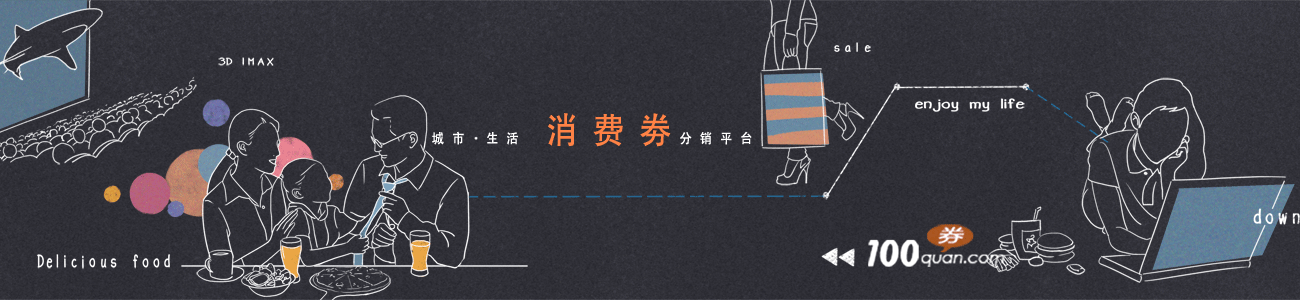
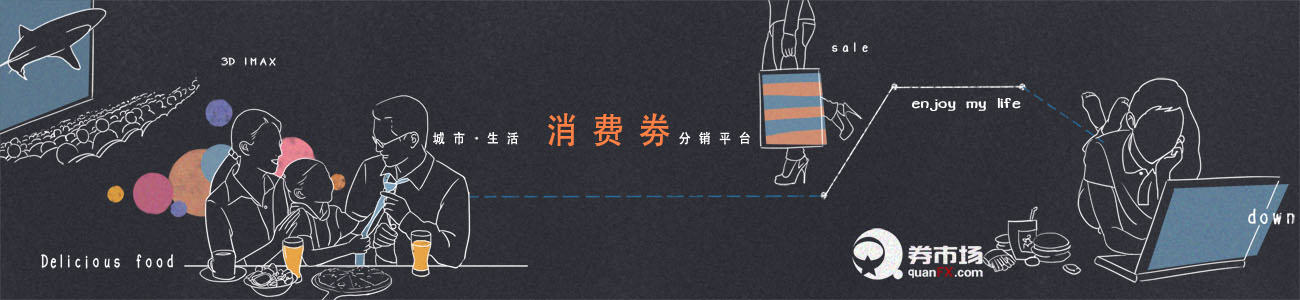
REEB-456
git-svn-id: http://svn.uhuila.cn/reeb/trunk@1458 96626eaa-6fa6-4472-8f5b-47c901fe3adc

diff --git a/resale/home/app/views/Application/solution.html b/resale/home/app/views/Application/solution.html
@@ -1,0 +1,126 @@
+<!DOCTYPE html>
+<html>
+<head>
+    <meta charset="UTF-8">
+    <title>券市场 - 生活消费券分销平台</title>
+    <link rel="shortcut icon" href="#{asset.url href:'/images/r/favicon.ico'/}" type="image/x-icon" />
+    #{asset.css src:['/r/base.css'] /}
+<style>
+.solution {
+    margin: 20px 0;
+    line-height: 20px;
+}
+.solution h2 {
+    font-size: 20px;
+}
+.solution h3 {
+    padding-top: 20px;
+    font-size: 14px;
+    line-height: 32px;
+}
+.solution h4 {
+    font-size: 12px;
+    line-height: 30px;
+}
+</style>
+</head>
+<div id="header" class="clearfix">
+    <div class="inner">
+        <h1 id="logo"><img src="http://img.uhcdn.com/images/r/small-logo.png" alt="100券" /></h1>
+        <div id="user">
+        #{if cas?.isLogin}
+            欢迎您，<a href="/orders">${cas.username}</a> | <a href="/logout">退出</a>
+        #{/if}
+        #{else}
+            您好，欢迎您来到券市场！<a href="/login">请登录</a>
+        #{/else}
+        </div>
+        <ul id="menu">
+            <li><a class="current" href="/">首　页</a></li>
+            <li><a href="/goods">商品库</a></li>
+            <li><a href="/library">我的分销库</a></li>
+        </ul>
+    </div>
+</div>
+<div id="content" class="clearfix">
+    <div class="solution">
+        <h2>行业解决方案</h2>
+        <h3 id="taobao">1. 淘宝商</h3>
+        <p>自2012年淘宝发力开始做本地生活平台，进行大量的招本地生活淘宝代理商，可见本地生
+        活消费是淘宝未来业务的重要增长点。在淘宝开放平台上，作为已经成熟的淘宝商如何代
+        理到优质且低价的品牌商户生活消费券产品，加入到淘宝平台本地生活中去，将决定是否
+        能搭乘到淘宝本地生活的“黄金列车”。</p>
+
+        <h4>客户需求：</h4>
+        <ol>
+            <li>需要大量的价格有优势的品牌商户生活消费券产品</li>
+            <li>需要产品资料齐全，说明清楚的产品介绍并能快速准确的发布到淘宝店中</li>
+            <li>需要管理和选择代理的产品，随时调整</li>
+            <li>只负责前台销售、发货与售后由”券市场”负责</li>
+        </ol>
+
+        <h4>解决方案：</h4>
+        <p>“券市场”针对淘宝商的业务需求，
+        提供知名品牌商户消费券产品，通过行业分类、地区分类、商圈分类查找并选择需要代销
+        的产品。
+        通过与淘宝API系统对接，让我们的产品可以一键发布到淘宝，方便省时。
+        通过强大的后台管理系统，提供更便捷的产品信息图片管理、价格管理、资金管理等。
+        提供对账单下载及结算报表支持。支持T+1结算及提现，有效提升资金利用率。
+        提供快速准确的代销发货系统，完善的售后团队。让淘宝商安心做销售。
+        </p>
+
+        <h3 id="bigb2c">2. 大型B2C网站</h3>
+        <p>垂直B2C电商市场已经非常成熟，各大B2C网站都进入多元化、多类别产品销售期。本地
+        生活服务也是各大B2C网站未来业务增长非常重要的一块分类业务。但本地生活服务电子
+        化系统化进程还属于初级阶段，每家B2C网站不太可能成立庞大的招商队伍进行实体店产
+        品引进。如何解决品牌商户产品的引进成为各大B2C网站急需解决的问题。</p>
+
+        <h4>客户需求：</h4>
+        <ol>
+            <li>需要大量的价格有优势的品牌商户生活消费券产品</li>
+            <li>需要标准API技术对接，产品信息、价格能时时更新</li>
+            <li>需要管理和选择代理的产品，随时调整</li>
+            <li>系统化的财务对账与T+1结算</li>
+            <li>只负责前台销售并提成、发货与售后”券市场”负责</li>
+        <ol>
+
+        <h4>解决方案：</h4>
+        <p>“券市场”针对大型B2C网站的业务需求，
+        提供知名品牌商户消费券产品，通过行业分类、地区分类、商圈分类查找并选择需要代销
+        的产品。
+        通过与B2C网站API系统对接，生活服务产品时时更新，方便省时。
+        通过强大的后台管理系统，提供更便捷的产品信息图片管理、价格管理、资金管理等。
+        提供对账单下载及结算报表支持。支持T+1结算及提现，有效提升资金利用率。
+        提供快速准确的代销发货系统，完善的售后团队。让B2C网站可以安心做营销。
+        </p>
+
+        <h3 id="other">3. 小企业与个体户</h3>
+        <p>中国礼品市场一直非常活跃，很多中小企业与个人都有非常丰富的客户资源，过年过节需
+        要大量的礼品产品。如粽子券、月饼券、商场超市礼品卡等。如何采购到品类繁多满足客
+        户需求的产品，是这些礼品企业和个人急需解决的问题。
+        </p>
+
+        <h4>客户需求：</h4>
+        <ol>
+            <li>需要大量、品类齐全、价格有优势的礼品券产品</li>
+            <li>需要漂亮的宣传页与宣传资料</li>
+            <li>投入小，低风险，利润高</li>
+            <li>只负责销售与结帐、发货与售后由供应商负责</li>
+        </ol>
+
+        <h4>解决方案：</h4>
+        <p>
+        “券市场”针对小企业与个人的业务需求，
+        提供大量、品类齐全的知名品牌礼品券产品。
+        制作精美的宣传手册及相关宣传资料。
+        销售不掉可全额立即退款，0风险。
+        提供快速准确的代销发货系统，完善的售后团队。让小企业与个人安心做客户。
+        </p>
+    </div>
+</div>
+<div id="footer">
+    <div class="copyright">版权所有：上海视惠信息科技有限公司 ©2012 quanFX.COM  沪ICP备08114451号</div>
+</div>
+</body>
+</html>
+

diff --git a/resale/home/app/views/Application/index.html b/resale/home/app/views/Application/index.html
@@ -2,7 +2,7 @@
 <html>
 <head>
     <meta charset="UTF-8">
-    <title>100券 - 生活消费券分销平台</title>
+    <title>券市场 - 生活消费券分销平台</title>
     <link rel="shortcut icon" href="#{asset.url href:'/images/r/favicon.ico'/}" type="image/x-icon" />
     #{asset.css src:['/r/base.css', '/r/index.css'] /}
 </head>
@@ -64,10 +64,10 @@
         <div class="salemode">
             <h3><img src="http://img.uhcdn.com/images/r/salemode.png" /></h3>
             <ul>
-                <li>› <a href="">淘宝商及其他C2C商户代销方案</a></li>
-                <li>› <a href="">大型B2C网站代销方案</a></li>
-                <li>› <a href="">团购网站代销方案</a></li>
-                <li>› <a href="">其他网站及企业个人代销方案</a></li>
+                <li>› <a href="/solution#taobao">淘宝商及其他C2C商户代销方案</a></li>
+                <li>› <a href="/solution#bigb2c">大型B2C网站代销方案</a></li>
+                <!-- <li>› <a href="">团购网站代销方案</a></li> -->
+                <li>› <a href="/solution#other">其他网站及企业个人代销方案</a></li>
             </ul>
         </div>
     </div>

diff --git a/website/home/app/views/main.html b/website/home/app/views/main.html
@@ -71,5 +71,15 @@
         Copyright © 2012 一百券YiBaiQuan.COM 版权所有 <span> 沪ICP备08114451号</span>
     </div>
 </div>
+<script type="text/javascript">
+  var _gaq = _gaq || [];
+  _gaq.push(['_setAccount', 'UA-32003041-1']);
+  _gaq.push(['_trackPageview']);
+  (function() {
+    var ga = document.createElement('script'); ga.type = 'text/javascript'; ga.async = true;
+    ga.src = ('https:' == document.location.protocol ? 'https://ssl' : 'http://www') + '.google-analytics.com/ga.js';
+    var s = document.getElementsByTagName('script')[0]; s.parentNode.insertBefore(ga, s);
+  })();
+</script>
 </body>
 </html>

diff --git a/website/www/app/views/main.html b/website/www/app/views/main.html
@@ -69,5 +69,16 @@
 </div>
     #{asset.js src:['/u/slides.min.js', '/u/base.js'] /}
     #{get 'moreScripts' /}
+<script type="text/javascript">
+  var _gaq = _gaq || [];
+  _gaq.push(['_setAccount', 'UA-32003041-1']);
+  _gaq.push(['_trackPageview']);
+
+  (function() {
+    var ga = document.createElement('script'); ga.type = 'text/javascript'; ga.async = true;
+    ga.src = ('https:' == document.location.protocol ? 'https://ssl' : 'http://www') + '.google-analytics.com/ga.js';
+    var s = document.getElementsByTagName('script')[0]; s.parentNode.insertBefore(ga, s);
+  })();
+</script>
 </body>
 </html>

diff --git a/resale/home/app/views/main.html b/resale/home/app/views/main.html
@@ -18,7 +18,7 @@
             欢迎您，<a href="/orders">${cas.username}</a> | <a href="/logout">退出</a>
         #{/if}
         #{else}
-            您好，欢迎您来到一百券！<a href="/login">请登录</a>
+            您好，欢迎您来到券市场！<a href="/login">请登录</a>
         #{/else}
         </div>
         <ul id="menu">

diff --git a/resale/home/app/controllers/Application.java b/resale/home/app/controllers/Application.java
@@ -15,5 +15,8 @@ public class Application extends Controller {
     public static void index() {
         render();
     }
+    public static void solution() {
+        render();
+    }
 
 }
